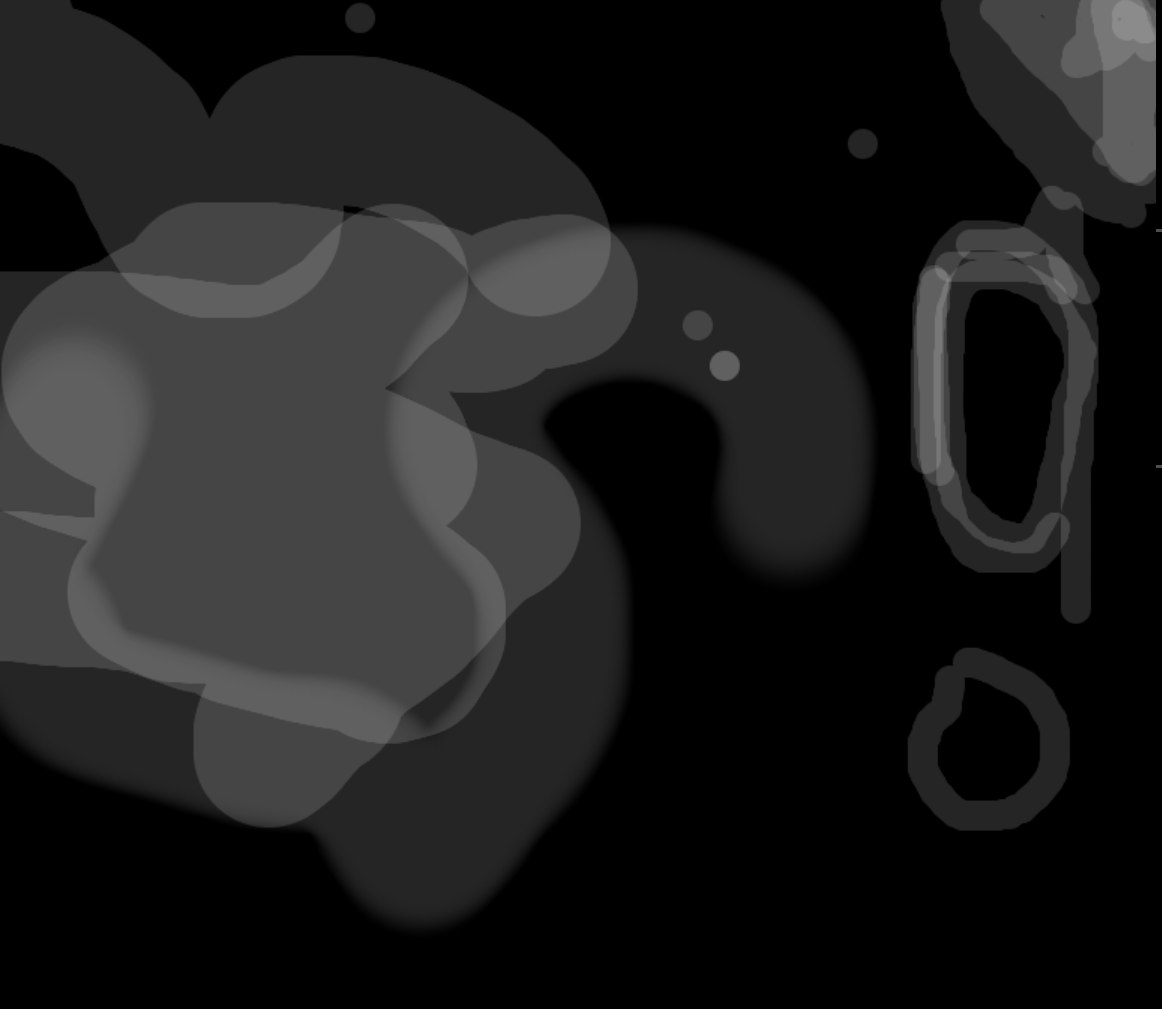
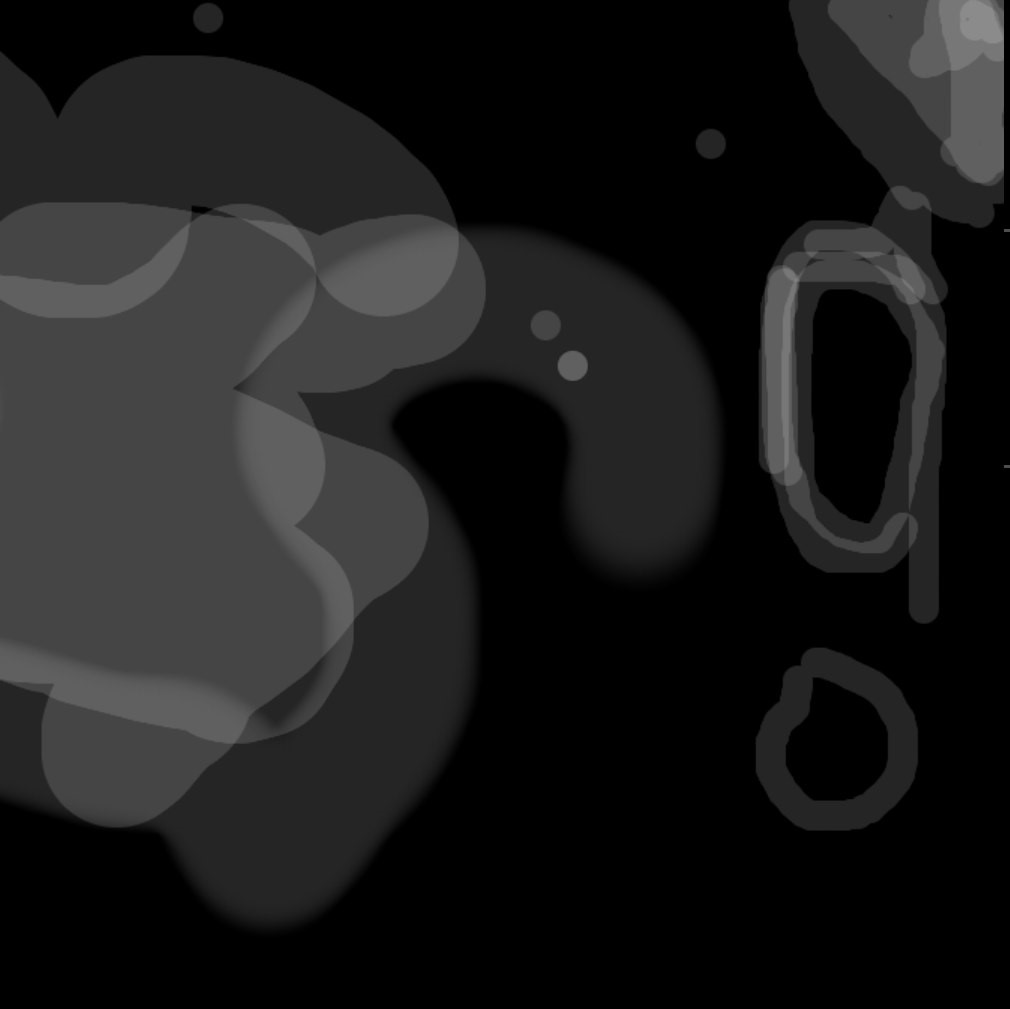
fixed texture position

diff --git a/src/create-terrain.ts b/src/create-terrain.ts
@@ -43,7 +43,6 @@ export async function createTerrain(src: string, levels: number, size: number) {
     const normals = [];
     const texture = [];
 
-    const points = [];
     console.time('indicies')
     for (let i = 0; i < height; i ++) {
         for (let j = 0; j < width; j++) {
@@ -61,15 +60,8 @@ export async function createTerrain(src: string, levels: number, size: number) {
                     k + width,
                     k + width + 1,
                 );
-                texture.push(
-                    0, 0,
-                    1, 0,
-                    0, 1,
-                    1, 0,
-                    1, 1,
-                    1, 0
-                );
             }
+            texture.push(j / width, i / height);
             
         }
     }

diff --git a/src/index.ts b/src/index.ts
@@ -236,7 +236,7 @@ async function createBuffers(
         [key: string]: number[]
     }
 ) {
-    const texture = await loadTexture(gl, '/texture2.png');
+    const texture = await loadTexture(gl, '/texture6.png');
     return {
         buffers: {
             position: createBuffer(gl, gl.ARRAY_BUFFER, new Float32Array(arrays.position)),
